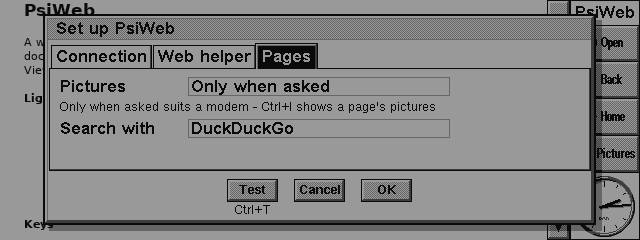
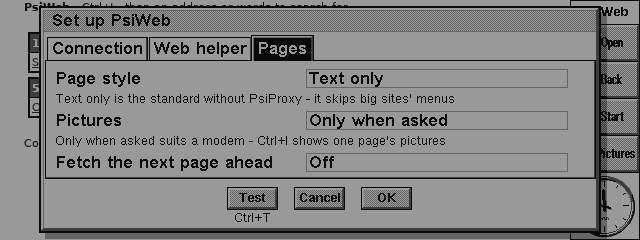
PsiWeb 1.05: Set up's Pages fits the 5mx; the start page showing follows a new route
- Set up PsiWeb > Pages: Fetch the next page ahead takes the place of
  Search with, which stays in Tools > Preferences. With four lines the
  page ran off the Series 5mx's screen.
- After Set up PsiWeb or Connection settings, the start page, if it is
  the page showing, is made again at once, so it names the new route.

Changed region(s): [[0.0312, 0.0, 1.0, 1.0]]

diff --git a/app/psiweb.cpp b/app/psiweb.cpp
@@ -3805,6 +3805,8 @@ void CPwAppUi::DoCommandL(TInt aCommand)
 				}
 			else if (HelperChanged(iView->StartedWith(), st))
 				iView->HelperChangedL();
+			if (iView->EngineRunning())
+				RefreshStartPageL();             // (1.05) the start page, if showing, names the new route
 			}
 		break;
 		}
@@ -3969,7 +3971,6 @@ void CPwSetupDialog::AppPreLayoutL()
 	// another way online no longer changes it behind the person's back
 	iPicturesChosen = iHadFile && (pics != 0) != (std != 0);
 	SetChoiceListCurrentItem(EPwDlgSuPictures, pics ? 1 : 0);
-	SetChoiceListCurrentItem(EPwDlgSuSearch, iSettings.iSearch == PW_SEARCH_FROGFIND ? 1 : 0);
 	SetChoiceListCurrentItem(EPwDlgSuStyle, iHadFile && iSettings.iStyle >= 0 ? iSettings.iStyle : StandardStyle(Choice()));
 	// (1.05) Fetch the next page ahead: as set, else the route's standard
 	iAheadChosen = iHadFile && (iSettings.iFlags & KPwFlagAheadChosen) != 0;
@@ -4212,7 +4213,6 @@ void CPwQueryDialog::PreLayoutDynInitL()
 void CPwSetupDialog::AppSaveL()
 	{
 	iSettings.iImages = ChoiceListCurrentItem(EPwDlgSuPictures) == 1;
-	iSettings.iSearch = ChoiceListCurrentItem(EPwDlgSuSearch) == 1 ? PW_SEARCH_FROGFIND : PW_SEARCH_DDG;
 	TInt style = ChoiceListCurrentItem(EPwDlgSuStyle);
 	iSettings.iStyle = iStyleChosen || style != StandardStyle(Choice()) ? style : -1;
 	// (1.05) Fetch the next page ahead: kept as set only when set
@@ -4278,6 +4278,7 @@ void CPwAppUi::SetupL()
 	else
 		iView->LinkToShared();               // ("Modem provides TLS" and the rest, read at each connection)
 	FollowRouteL(styleWas);              // (1.05) the page style and fetching ahead
+	RefreshStartPageL();                 // (1.05) the start page, if showing, names the new route
 	}
 
 // (0.85) What a "Page not opened" page's links ask for

diff --git a/README.md b/README.md
@@ -226,7 +226,7 @@ Measured (ARM harness, the same pages served locally so only the Psion's own wor
 
 ## What's new in 0.85
 
-- **Set up PsiWeb.** The first time PsiWeb starts on a Psion with no settings from any program of the suite, one dialog asks how the Psion goes online (a network card or dial-up, the Atom modem, another WiFi modem), how pages come (Direct, the Atom modem helper, PsiProxy on a computer) and about pictures and search. It is always on Tools > Set up PsiWeb... It writes the same connection settings as before (shared with PsiTerm and PsiMail): nothing new in them, and Cancel changes nothing. A netBook is offered the network card first.
+- **Set up PsiWeb.** The first time PsiWeb starts on a Psion with no settings from any program of the suite, one dialog asks how the Psion goes online (a network card or dial-up, the Atom modem, another WiFi modem), how pages come (Direct, the Atom modem helper, PsiProxy on a computer) and about pictures, the page style and (1.05) fetching the next page ahead; search is chosen in Tools > Preferences. It is always on Tools > Set up PsiWeb... It writes the same connection settings as before (shared with PsiTerm and PsiMail): nothing new in them, and Cancel changes nothing. A netBook is offered the network card first.
 - **The routes are named.** *Direct*, *Atom modem helper* and *PsiProxy on a computer* everywhere: setup, Help, About, Page information. The word "proxy" is gone from what you read. In Connection settings the link is now *Network card or dial-up (Psion TCP/IP)* (it was *Psion TCP/IP (dial-up)*), the same in PsiTerm and PsiMail, and *Use proxy* is the *Web helper*. The settings themselves did not change.
 - **Pages that do not open say why.** In place of a two-second infoprint, a *Page not opened* page: what could not be reached, the likely cause in plain words (the serial port in use, no connection, the name not found, refused, no answer, older security, a certificate not trusted or the Psion's date), and *Try again*, *Test the connection* and *Set up PsiWeb* as links. The address that did not open stays in the address box to correct. The route is on the page.
 - **Search works.** Words typed for an address (Ctrl+L, Ctrl+O) go to DuckDuckGo's page without scripts, or FrogFind (Tools > Preferences > Search with). Before, "Or words to search for" gave "No such file or directory".
@@ -323,7 +323,7 @@ PsiWeb 0.89 to 0.85 (the first rows) and 0.80 on the netBook (colour, 640x480) a
 <td><a href="docs/img/netbook-psiweb-setup-helper.png"><img src="docs/img/netbook-psiweb-setup-helper.png" alt="netBook: the Web helper page of Set up PsiWeb" width="400"></a></td>
 <td><a href="docs/img/5mx-psiweb-setup-helper.png"><img src="docs/img/5mx-psiweb-setup-helper.png" alt="Series 5mx: the Web helper page of Set up PsiWeb" width="400"></a></td>
 </tr>
-<tr><td colspan="2"><b>Set up PsiWeb: pictures and search</b></td></tr>
+<tr><td colspan="2"><b>Set up PsiWeb: page style, pictures and fetching ahead</b></td></tr>
 <tr>
 <td><a href="docs/img/netbook-psiweb-setup-pages.png"><img src="docs/img/netbook-psiweb-setup-pages.png" alt="netBook: the Pages page of Set up PsiWeb" width="400"></a></td>
 <td><a href="docs/img/5mx-psiweb-setup-pages.png"><img src="docs/img/5mx-psiweb-setup-pages.png" alt="Series 5mx: the Pages page of Set up PsiWeb" width="400"></a></td>
